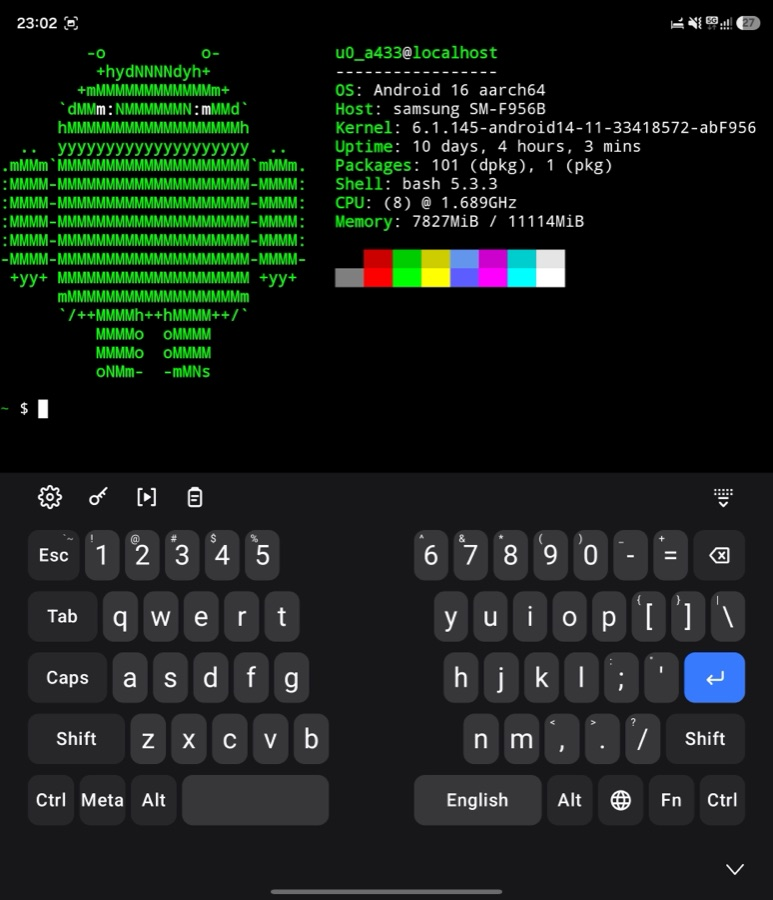
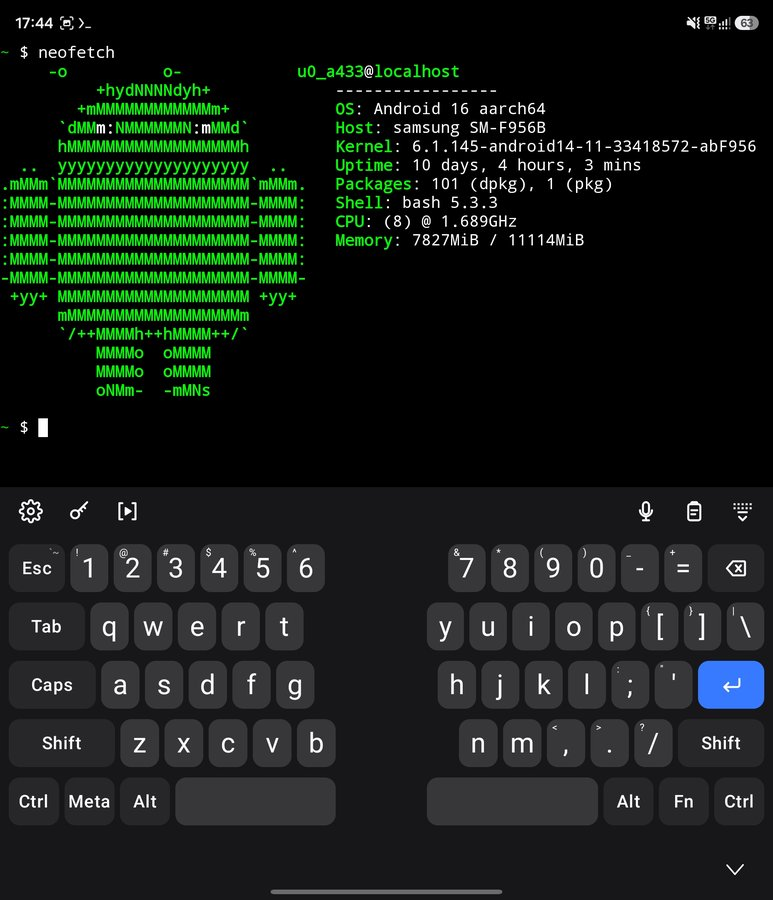
Refresh the README: new screenshots at one size, and the features it was missing (#105)
* Show the new screenshots in the README, every image in a row the same height

The two foldable screenshots are retaken: the split board now has 6 on the
left half, and Fn armed shows the current key legends. The phone one that
showed the developer strip is replaced by word suggestions on the setup
screen, and named for it (phone-suggestions.jpg). Each is resized to the size
of the one it replaces, 773x900 or 366x900.

The images left the caption tables. In a table GitHub squeezes each column by
its caption's length, so images of one width attribute rendered at different
sizes and, centred vertically, started at different heights. Each row of
images is now one paragraph with every image 440 px tall, and the captions
stay in a table below it. Checked with GitHub's own Markdown rendering and
stylesheet in headless Chrome, at a README's width and a narrow one.

Claude-Session: https://claude.ai/code/session_018xZ5Nj34LPYuz4dyeT9AN1

* Bring the README up to what the keyboard does now, and link the story behind it

Added what the README did not say yet: the number row; a picked word's space
and punctuation taking its place; a taken-back correction left alone for the
field; Suggest in this app for apps that ask for no suggestions; the width
setting; what the gear's sheet holds, on every board; TalkBack support; and
the licences screen. Nothing it already said was wrong: the settings paths,
the ten languages and the developer strip's keys match the code.
[…]

diff --git a/README.md b/README.md
@@ -32,28 +32,45 @@ And it stays private. The app has no network permission at all, so nothing you t
 phone — there is no analytics, no sync, no account, and nothing is written to a log. Passwords come
 from the password manager you already use, and the keyboard never shows or keeps them.
 
+[Read the story behind this project](https://hcnotes.cc/article/articles-the-keyboard-i-always-needed).
+
 ## What it looks like
+
+<p>
+<img src="docs/screenshots/fold-fn.jpg" alt="The 60% board under a terminal session on a foldable with Fn armed: the number row shows F1 to F12, the letters show arrows, Home, End, PgUp and PgDn, and the toolbar says Fn · next key" height="440">
+<img src="docs/screenshots/fold-split.jpg" alt="The 60% board split into a left and a right half on a foldable: Esc and 1 to 6 on the left, 7 to Backspace on the right, each half with its own space bar" height="440">
+</p>
 
 | Fn armed on a foldable | Split in two |
 |---|---|
-| <img src="docs/screenshots/fold-fn.jpg" alt="The 60% board under a terminal session on a foldable with Fn armed: the number row shows F1 to F12, the letters show arrows, Home, End, PgUp and PgDn, and the toolbar says Fn · next key" width="380"> | <img src="docs/screenshots/fold-split.jpg" alt="The 60% board split into a left and a right half on a foldable, each half with its own space bar" width="380"> |
 | Every key of a 60% board, with the symbols printed where a PC keyboard has them. Arm Fn and the keys show what they will type. | Or in two halves, one under each thumb: where a hinge crosses the screen, on a phone turned sideways, or always. |
 
-| Suggestions and the developer strip | The gear | Macros, one tap | Building a macro |
+<p>
+<img src="docs/screenshots/phone-suggestions.jpg" alt="The phone board under the setup screen's try field: after Hello World the toolbar offers World, Worldwide and Worlds" height="440">
+<img src="docs/screenshots/phone-gear-sheet.jpg" alt="The sheet the toolbar's gear opens: a Developer mode switch and a way to Settings" height="440">
+<img src="docs/screenshots/phone-macro-sheet.jpg" alt="The macro sheet over a terminal: the built-in password generator and a macro that types neofetch and presses Enter" height="440">
+<img src="docs/screenshots/phone-macro-editor.jpg" alt="The macro editor with a Type text block and a Press key block for Enter, and a field to try it" height="440">
+</p>
+
+| Word suggestions | The gear | Macros, one tap | Building a macro |
 |---|---|---|---|
-| <img src="docs/screenshots/phone-dev-strip.jpg" alt="The phone board with word suggestions in the toolbar and a strip of Esc, Tab, Ctrl, Alt, Shift, arrows and Fn above the letters" width="180"> | <img src="docs/screenshots/phone-gear-sheet.jpg" alt="The sheet the toolbar's gear opens: a Developer mode switch and a way to Settings" width="180"> | <img src="docs/screenshots/phone-macro-sheet.jpg" alt="The macro sheet over a terminal: the built-in password generator and a macro that types neofetch and presses Enter" width="180"> | <img src="docs/screenshots/phone-macro-editor.jpg" alt="The macro editor with a Type text block and a Press key block for Enter, and a field to try it" width="180"> |
-| Words to pick while you type, and the PC keys above any layer. | Developer mode and Settings, behind one button. | Play a macro into any field, a terminal included. | Snap blocks together, then try the macro right there. |
+| Words to pick while you type: the word as typed, its correction and completions. | Developer mode and Settings, behind one button. | Play a macro into any field, a terminal included. | Snap blocks together, then try the macro right there. |
 
 ## Everyday typing
 
 - **Glide typing** across the letters of every language, each with its own bundled word list.
 - **Word suggestions** while you type: the word as typed, its correction and completions, in the
   toolbar behind a chevron. Space applies the highlighted correction and one backspace takes it
-  back. Both parts can be turned off, and neither runs in password, terminal, number, address or
-  e-mail fields.
+  back, and a word you took back is left alone for the rest of that field. A word you tap gets a
+  space after it; a following `.` `,` `!` `?` `;` `:` takes that space's place, so you never get
+  "hello !". Both parts can be turned off, and neither runs in password, terminal, number, address
+  or e-mail fields. An app that asks for no suggestions gets none, unless you allow that one app
+  with Suggest in this app in the gear's sheet.
 - **Your own words,** per language (Settings → Suggestions → Custom words): add a word and it is
   suggested, glide-typed and never corrected away; block one and it is never suggested or used as
   a correction.
+- **A number row** of 1 to 0 above the letters on a phone, switched on in Settings or the gear's
+  sheet; password fields always show it. The 60% board always has its digits.
 - **Capitals where a sentence starts,** in fields that ask for them (chat boxes do): the Shift key
   lights up, one tap on it cancels the capital, and terminals, addresses and code get none. It can
   be turned off in Settings.
@@ -65,11 +82,15 @@ from the password manager you already use, and the keyboard never shows or keeps
   who prefer typing on the Russian ЙЦУКЕН layout, an optional setting enables combined Bulgarian
   vocabulary with collision-safe autocorrect.
   *(Want your language or a feature? [Create an issue](https://github.com/matasarei/hcboard/issues) and tell me!)*
+- **Works with TalkBack:** every key is read as what it types now, with the state of Shift and the
+  modifiers, and what a long press holds (accents, the cursor trackpad, the language list) is an
+  action on the key.
 - **The feel of a phone keyboard:** a preview above the key you press, a spring under your finger,
   a light haptic tick, accents on a long press, and a cursor trackpad when you hold the space bar.
 - **Your phone's look:** Material 3, with dynamic colour on Android 12 and later. Four themes —
   System, Light, Dark and Black — and the dark board is built on the same background your apps use.
-- **A toolbar that stays out of the way:** the gear (Developer mode and Settings), your password
+- **A toolbar that stays out of the way:** the gear (Developer mode, the number row and Settings,
+  the same sheet on every board, with the phone-only switches dimmed on a wide one), your password
   manager and your macros on the left; the microphone (when a voice keyboard such as Google voice
   typing is enabled; Settings picks which one when you have several, or turns the button off),
   paste and hide on the right. On a phone the left buttons fold behind a › until you tap it, and
@@ -79,8 +100,8 @@ from the password manager you already use, and the keyboard never shows or keeps
 - **Your password manager, one tap away.** Logins it offers appear above the keys. The key button
   can also fill a login into the field in front of you, open the manager, or change which one
   Android uses.
-- **Fits your hands:** set the keyboard's height, the space under the keys (or let it follow the
-  system bar), the haptic tick and the key preview in Settings, and try each change in
+- **Fits your hands:** set the keyboard's height and width, the space under the keys (or let it
+  follow the system bar), the haptic tick and the key preview in Settings, and try each change in
   the field at the bottom of the screen, or in its password field.
 
 ## When you want to tinker
@@ -191,7 +212,8 @@ The instrumented smoke test needs an emulator or device: `./gradlew :app:connect
 
 hcboard is licensed under the [Apache License 2.0](LICENSE). It includes code and data from other
 projects, under Apache-2.0 and, for the Ukrainian word list, CC BY 4.0; the exact attributions are
-in [NOTICE](NOTICE).
+in [NOTICE](NOTICE), and the app shows them, with the libraries it is built on and their licences,
+under Settings → About → Open-source licences.
 
 | What | From | Licence |
 |---|---|---|
